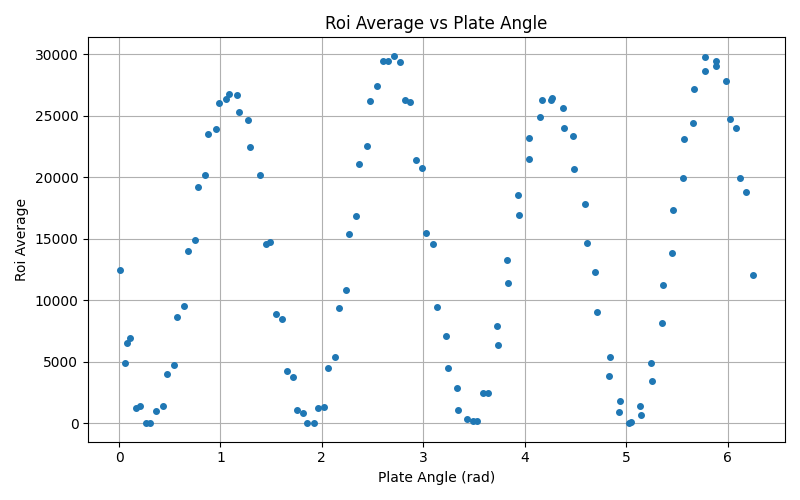
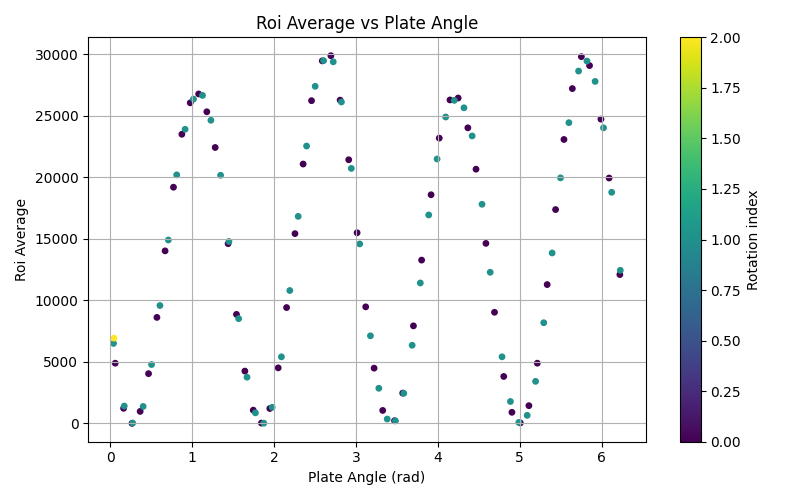
Add rotation based coloring

diff --git a/readout/create-plot.py b/readout/create-plot.py
@@ -10,7 +10,7 @@ import numpy as np
 import matplotlib.pyplot as plt
 
 # === CONFIG ===
-counts_per_wheel_rev_guess = 2382
+counts_per_wheel_rev_guess = 2394
 timezone_offset_hours = 4
 plot_types = ["one_pixel", "all_pixel_sum", "all_pixel_avg",
               "ROI_sum", "ROI_average", "ROI_median"]
@@ -47,12 +47,13 @@ def find_closest_encoder_angle(fits_ts, encoder_ts_array, encoder_counts):
     return encoder_counts[closest_idx]
 
 
-def save_plot(x, y, xlabel, ylabel, title, outpath):
+def save_plot(x, y, c, xlabel, ylabel, title, outpath):
     plt.figure(figsize=(8, 5))
-    plt.plot(x, y, 'o', markersize=4)
+    sc = plt.scatter(x, y, c=c, cmap="viridis", s=15, marker='o')
     plt.xlabel(xlabel)
     plt.ylabel(ylabel)
     plt.title(title)
+    plt.colorbar(sc, label="Rotation index")
     plt.grid(True)
     plt.tight_layout()
     plt.savefig(outpath)
@@ -85,6 +86,7 @@ def main():
 
     encoders = []
     angles = []
+    rotations = []
     vals = {k: [] for k in plot_types}
 
     for ffile in fits_files:
@@ -120,6 +122,10 @@ def main():
         frac = (rel / counts_per_wheel_rev_guess) % 1
         angles.append(frac * 2 * np.pi)
 
+        # Rotation index (integer turn count of the wheel)
+        rot_index = int(rel // counts_per_wheel_rev_guess)
+        rotations.append(rot_index)
+
         # === Store values ===
         vals["one_pixel"].append(data[y_max, x_max])
         vals["all_pixel_sum"].append(np.sum(data))   # no background subtraction
@@ -132,15 +138,16 @@ def main():
 
     encoders = np.array(encoders)
     angles = np.array(angles)
+    rotations = np.array(rotations)
 
     for k in plot_types:
         y = np.array(vals[k])
-        save_plot(encoders, y, "Encoder Count",
-                  k.replace("_", " ").title(),
+        save_plot(encoders, y, rotations,
+                  "Encoder Count", k.replace("_", " ").title(),
                   f"{k.replace('_', ' ').title()} vs Encoder",
                   outpath=os.path.join(plot_base_dir, k, f"{k}_vs_encoder.png"))
-        save_plot(angles, y, "Plate Angle (rad)",
-                  k.replace("_", " ").title(),
+        save_plot(angles, y, rotations,
+                  "Plate Angle (rad)", k.replace("_", " ").title(),
                   f"{k.replace('_', ' ').title()} vs Plate Angle",
                   outpath=os.path.join(plot_base_dir, k, f"{k}_vs_angle.png"))
 
